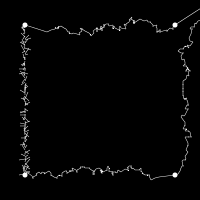
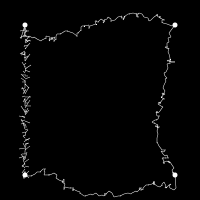
updated scribble plotter example to work with new syntax

diff --git a/examples/scribbleplotter/scribbleplotter.js b/examples/scribbleplotter/scribbleplotter.js
@@ -1,11 +1,21 @@
 var fs = require('fs')
   , sketch = __dirname + '/scribbleplotter.pde'
-  , processing = require('../../');
+  , Processing = require('../../')
+  , Canvas = require("canvas");
 
-fs.readFile(sketch, function(err, data) {
-  var p5 = processing.createInstance(data, sketch)
+ 
+
+ var canvas = new Canvas(200,200);
+
+
+fs.readFile(sketch, {"encoding": "utf-8"}, function(err, data) {
+	if(err){
+		console.log(err);
+	}
+	// console.log(data);
+  var p5 = new Processing(canvas, data)
     , out = fs.createWriteStream(__dirname + '/scribbleplotter.png')
-    , stream = p5.canvas.createPNGStream();
+    , stream = canvas.createPNGStream();
 
   stream.pipe(out);
 });
